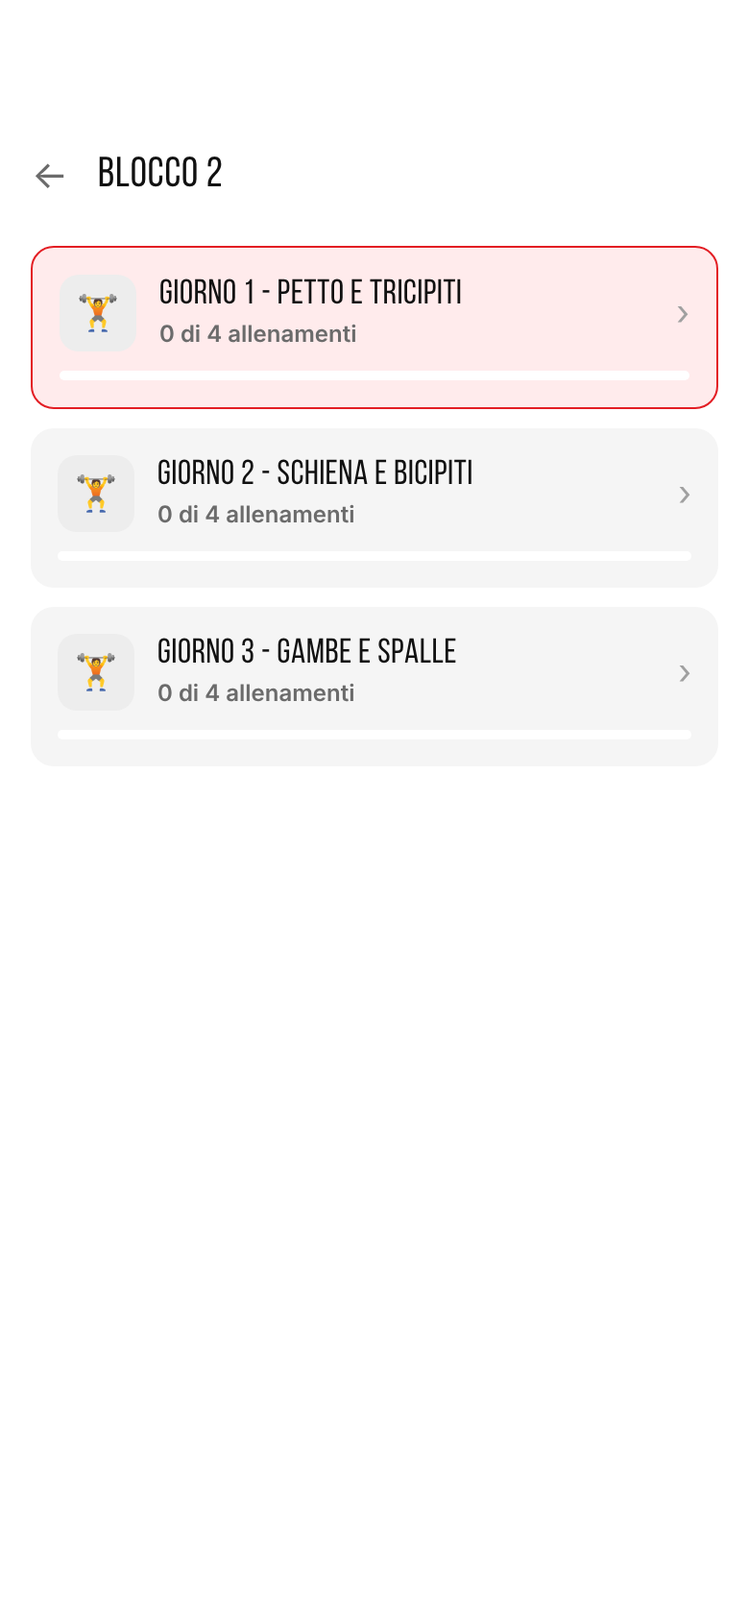
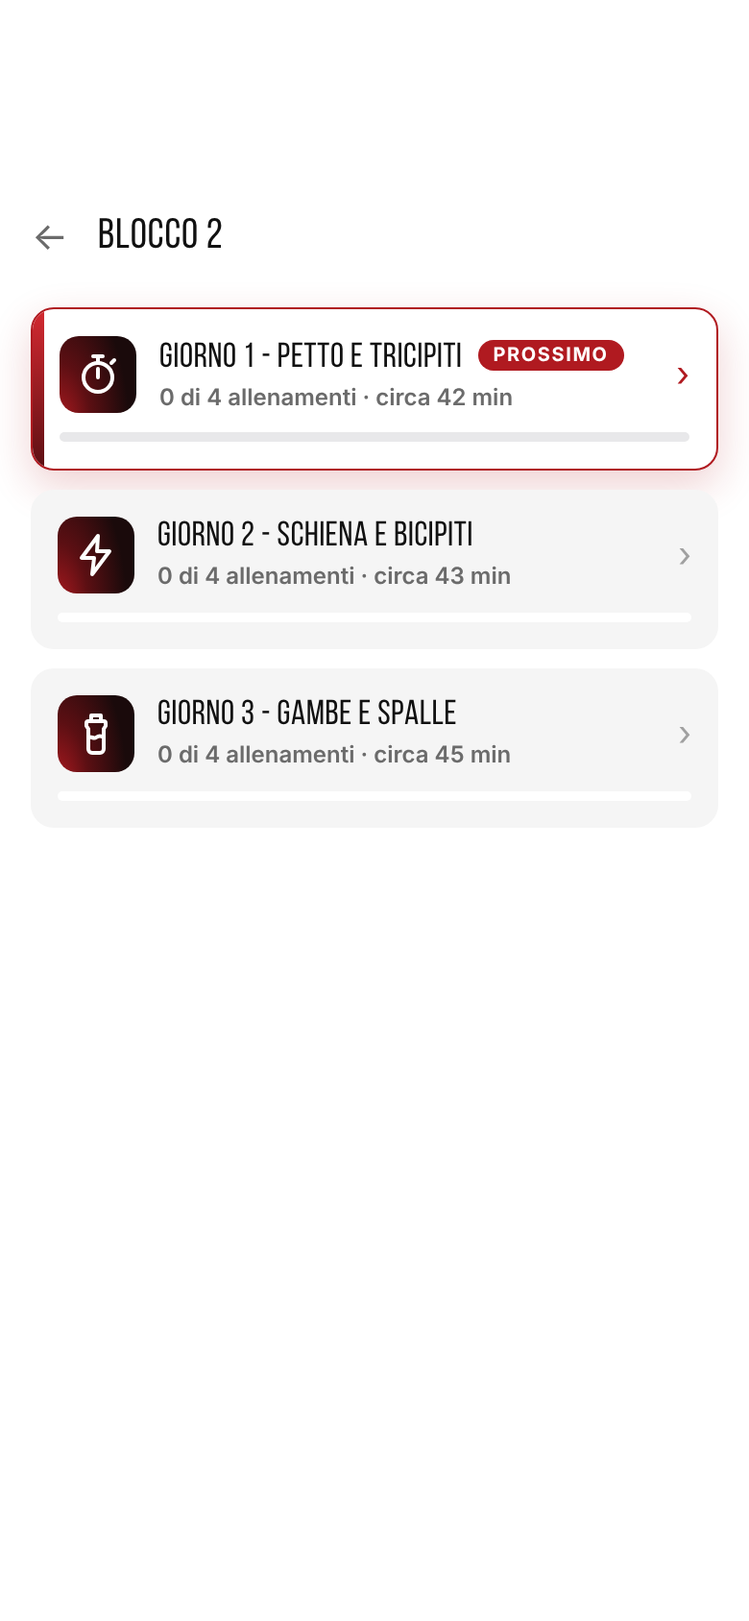
Coaching: schermate nuove dell'app di allenamento
Claude-Session: https://claude.ai/code/session_01FsqA95DUtiDL1q4D8YwpeG

diff --git a/coaching/index.html b/coaching/index.html
@@ -88,7 +88,7 @@ a{text-decoration:none}
 </div>
 
 <!-- phone hero -->
-<div style="flex: 1 1 540px; position: relative; display: flex; flex-wrap: wrap; justify-content: center; align-items: flex-start; gap: 24px"><a href="#modulo" style="position:absolute;top:-56px;right:0;z-index:5;max-width:230px;background:#E31E24;color:#ffffff;border-radius:16px;padding:16px 20px;box-shadow:0 14px 34px rgba(227,30,36,0.35);display:flex;flex-direction:column;gap:4px;transform:rotate(3deg)"><span style="display:flex;align-items:center;gap:8px;font-family:'Bebas Neue',sans-serif;font-size:30px;letter-spacing:0.04em;line-height:1"><svg width="22" height="22" viewBox="0 0 24 24" fill="none" stroke="#ffffff" stroke-width="2.2" stroke-linecap="round" stroke-linejoin="round" aria-hidden="true" style="flex:none"><circle cx="12" cy="12" r="9"/><path d="M12 7v5l3 2"/></svg>Posti limitati!</span><span style="font-size:13.5px;font-weight:600;line-height:1.4">Candidati ora per assicurarti il tuo.</span></a><div style="width:250px;max-width:100%;flex:none;background:#1A1A1A;border-radius:38px;padding:7px;box-sizing:border-box;box-shadow:0 0 0 1.5px #3A3A3A;position:relative"><div aria-hidden="true" style="position:absolute;top:7px;left:7px;right:7px;height:calc((100% - 14px) * 0.0692);container-type:inline-size;pointer-events:none;z-index:3;color:#ffffff"><div style="position:absolute;left:10cqw;top:0;height:100%;display:flex;align-items:center;font:600 4.2cqw 'Inter',sans-serif;letter-spacing:0.01em">9:41</div><div style="position:absolute;left:50%;top:2.8cqw;width:32.3cqw;height:9.5cqw;margin-left:-16.15cqw;background:#000;border-radius:999px"></div><div style="position:absolute;right:8cqw;top:0;height:100%;display:flex;align-items:center;gap:1.6cqw"><svg viewBox="0 0 18 12" style="width:4.6cqw;height:auto;display:block" fill="#ffffff"><rect x="0" y="8" width="3" height="4" rx="1"/><rect x="5" y="5.5" width="3" height="6.5" rx="1"/><rect x="10" y="3" width="3" height="9" rx="1"/><rect x="15" y="0" width="3" height="12" rx="1"/></svg><svg viewBox="0 0 17 12" style="width:4.3cqw;height:auto;display:block" fill="none" stroke="#ffffff" stroke-width="1.9" stroke-linecap="round"><path d="M1.2 4.3a10.8 10.8 0 0 1 14.6 0"/><path d="M3.9 7.1a7 7 0 0 1 9.2 0"/><circle cx="8.5" cy="10.2" r="1.1" fill="#ffffff" stroke="none"/></svg><svg viewBox="0 0 27 13" style="width:6.6cqw;height:auto;display:block"><rect x="0.5" y="0.5" width="23" height="12" rx="3.5" fill="none" stroke="#ffffff" stroke-opacity="0.4"/><rect x="2" y="2" width="20" height="9" rx="2.2" fill="#ffffff"/><path d="M25 4.5v4c.9-.3 1.6-1.2 1.6-2s-.7-1.7-1.6-2z" fill="#ffffff" fill-opacity="0.5"/></svg></div></div><div style="position:relative;width:100%;aspect-ratio:390 / 780;border-radius:31px;overflow:hidden;background:#0A0A0A"><div style="position:relative;width:100%;aspect-ratio:780 / 488;background:#0A0A0A;overflow:hidden"><img src="/coaching/img/petto.jpg" alt="" style="position:absolute;top:0;left:0;width:100%;height:100%;object-fit:cover;object-position:center;display:block"><div style="position:absolute;top:0;left:0;width:100%;height:100%;background:linear-gradient(rgba(0,0,0,0.25),rgba(0,0,0,0.35))"></div><img src="/coaching/img/app-elenco-testata.png" alt="" style="position:absolute;top:0;left:0;width:100%;height:100%;display:block"></div><img src="/coaching/img/app-elenco.png" alt="Elenco degli esercizi della seduta: Giorno 1, Allenamento 1, Petto e Tricipiti" style="width:100%;height:auto;display:block"></div></div><div style="margin-top:96px;display:flex;flex:none;max-width:100%"><div style="width:250px;max-width:100%;flex:none;background:#1A1A1A;border-radius:38px;padding:7px;box-sizing:border-box;box-shadow:0 0 0 1.5px #3A3A3A;position:relative"><div aria-hidden="true" style="position:absolute;top:7px;left:7px;right:7px;height:calc((100% - 14px) * 0.0692);container-type:inline-size;pointer-events:none;z-index:3;color:#0A0A0A"><div style="position:absolute;left:10cqw;top:0;height:100%;display:flex;align-items:center;font:600 4.2cqw 'Inter',sans-serif;letter-spacing:0.01em">9:41</div><div style="position:absolute;left:50%;top:2.8cqw;width:32.3cqw;height:9.5cqw;margin-left:-16.15cqw;background:#000;border-radius:999px"></div><div style="position:absolute;right:8cqw;top:0;height:100%;display:flex;align-items:center;gap:1.6cqw"><svg viewBox="0 0 18 12" style="width:4.6cqw;height:auto;display:block" fill="#0A0A0A"><rect x="0" y="8" width="3" height="4" rx="1"/><rect x="5" y="5.5" width="3" height="6.5" rx="1"/><rect x="10" y="3" width="3" height="9" rx="1"/><rect x="15" y="0" width="3" height="12" rx="1"/></svg><svg viewBox="0 0 17 12" style="width:4.3cqw;height:auto;display:block" fill="none" stroke="#0A0A0A" stroke-width="1.9" stroke-linecap="round"><path d="M1.2 4.3a10.8 10.8 0 0 1 14.6 0"/><path d="M3.9 7.1a7 7 0 0 1 9.2 0"/><circle cx="8.5" cy="10.2" r="1.1" fill="#0A0A0A" stroke="none"/></svg><svg viewBox="0 0 27 13" style="width:6.6cqw;height:auto;display:block"><rect x="0.5" y="0.5" width="23" height="12" rx="3.5" fill="none" stroke="#0A0A0A" stroke-opacity="0.4"/><rect x="2" y="2" width="20" height="9" rx="2.2" fill="#0A0A0A"/><path d="M25 4.5v4c.9-.3 1.6-1.2 1.6-2s-.7-1.7-1.6-2z" fill="#0A0A0A" fill-opacity="0.5"/></svg></div></div><img src="/coaching/img/app-dettaglio.png" alt="Dettaglio di un esercizio con video, serie, kg e ripetizioni" style="width:100%;aspect-ratio:390 / 780;object-fit:cover;object-position:top;display:block;border-radius:31px"></div></div></div>
+<div style="flex: 1 1 540px; position: relative; display: flex; flex-wrap: wrap; justify-content: center; align-items: flex-start; gap: 24px"><a href="#modulo" style="position:absolute;top:-56px;right:0;z-index:5;max-width:230px;background:#E31E24;color:#ffffff;border-radius:16px;padding:16px 20px;box-shadow:0 14px 34px rgba(227,30,36,0.35);display:flex;flex-direction:column;gap:4px;transform:rotate(3deg)"><span style="display:flex;align-items:center;gap:8px;font-family:'Bebas Neue',sans-serif;font-size:30px;letter-spacing:0.04em;line-height:1"><svg width="22" height="22" viewBox="0 0 24 24" fill="none" stroke="#ffffff" stroke-width="2.2" stroke-linecap="round" stroke-linejoin="round" aria-hidden="true" style="flex:none"><circle cx="12" cy="12" r="9"/><path d="M12 7v5l3 2"/></svg>Posti limitati!</span><span style="font-size:13.5px;font-weight:600;line-height:1.4">Candidati ora per assicurarti il tuo.</span></a><div style="width:250px;max-width:100%;flex:none;background:#1A1A1A;border-radius:38px;padding:7px;box-sizing:border-box;box-shadow:0 0 0 1.5px #3A3A3A;position:relative"><div aria-hidden="true" style="position:absolute;top:7px;left:7px;right:7px;height:calc((100% - 14px) * 0.0692);container-type:inline-size;pointer-events:none;z-index:3;color:#ffffff"><div style="position:absolute;left:10cqw;top:0;height:100%;display:flex;align-items:center;font:600 4.2cqw 'Inter',sans-serif;letter-spacing:0.01em">9:41</div><div style="position:absolute;left:50%;top:2.8cqw;width:32.3cqw;height:9.5cqw;margin-left:-16.15cqw;background:#000;border-radius:999px"></div><div style="position:absolute;right:8cqw;top:0;height:100%;display:flex;align-items:center;gap:1.6cqw"><svg viewBox="0 0 18 12" style="width:4.6cqw;height:auto;display:block" fill="#ffffff"><rect x="0" y="8" width="3" height="4" rx="1"/><rect x="5" y="5.5" width="3" height="6.5" rx="1"/><rect x="10" y="3" width="3" height="9" rx="1"/><rect x="15" y="0" width="3" height="12" rx="1"/></svg><svg viewBox="0 0 17 12" style="width:4.3cqw;height:auto;display:block" fill="none" stroke="#ffffff" stroke-width="1.9" stroke-linecap="round"><path d="M1.2 4.3a10.8 10.8 0 0 1 14.6 0"/><path d="M3.9 7.1a7 7 0 0 1 9.2 0"/><circle cx="8.5" cy="10.2" r="1.1" fill="#ffffff" stroke="none"/></svg><svg viewBox="0 0 27 13" style="width:6.6cqw;height:auto;display:block"><rect x="0.5" y="0.5" width="23" height="12" rx="3.5" fill="none" stroke="#ffffff" stroke-opacity="0.4"/><rect x="2" y="2" width="20" height="9" rx="2.2" fill="#ffffff"/><path d="M25 4.5v4c.9-.3 1.6-1.2 1.6-2s-.7-1.7-1.6-2z" fill="#ffffff" fill-opacity="0.5"/></svg></div></div><div style="position:relative;width:100%;aspect-ratio:390 / 780;border-radius:31px;overflow:hidden;background:#0A0A0A"><div style="position:relative;width:100%;aspect-ratio:780 / 488;background:#0A0A0A;overflow:hidden"><img src="/coaching/img/petto.jpg" alt="" style="position:absolute;top:0;left:0;width:100%;height:100%;object-fit:cover;object-position:center;display:block"><div style="position:absolute;top:0;left:0;width:100%;height:100%;background:linear-gradient(rgba(0,0,0,0.25),rgba(0,0,0,0.35))"></div><img src="/coaching/img/app-elenco-testata.png?v=2" alt="" style="position:absolute;top:0;left:0;width:100%;height:100%;display:block"></div><img src="/coaching/img/app-elenco.png?v=2" alt="Elenco degli esercizi della seduta: Giorno 1, Allenamento 1, Petto e Tricipiti" style="width:100%;height:auto;display:block"></div></div><div style="margin-top:96px;display:flex;flex:none;max-width:100%"><div style="width:250px;max-width:100%;flex:none;background:#1A1A1A;border-radius:38px;padding:7px;box-sizing:border-box;box-shadow:0 0 0 1.5px #3A3A3A;position:relative"><div aria-hidden="true" style="position:absolute;top:7px;left:7px;right:7px;height:calc((100% - 14px) * 0.0692);container-type:inline-size;pointer-events:none;z-index:3;color:#0A0A0A"><div style="position:absolute;left:10cqw;top:0;height:100%;display:flex;align-items:center;font:600 4.2cqw 'Inter',sans-serif;letter-spacing:0.01em">9:41</div><div style="position:absolute;left:50%;top:2.8cqw;width:32.3cqw;height:9.5cqw;margin-left:-16.15cqw;background:#000;border-radius:999px"></div><div style="position:absolute;right:8cqw;top:0;height:100%;display:flex;align-items:center;gap:1.6cqw"><svg viewBox="0 0 18 12" style="width:4.6cqw;height:auto;display:block" fill="#0A0A0A"><rect x="0" y="8" width="3" height="4" rx="1"/><rect x="5" y="5.5" width="3" height="6.5" rx="1"/><rect x="10" y="3" width="3" height="9" rx="1"/><rect x="15" y="0" width="3" height="12" rx="1"/></svg><svg viewBox="0 0 17 12" style="width:4.3cqw;height:auto;display:block" fill="none" stroke="#0A0A0A" stroke-width="1.9" stroke-linecap="round"><path d="M1.2 4.3a10.8 10.8 0 0 1 14.6 0"/><path d="M3.9 7.1a7 7 0 0 1 9.2 0"/><circle cx="8.5" cy="10.2" r="1.1" fill="#0A0A0A" stroke="none"/></svg><svg viewBox="0 0 27 13" style="width:6.6cqw;height:auto;display:block"><rect x="0.5" y="0.5" width="23" height="12" rx="3.5" fill="none" stroke="#0A0A0A" stroke-opacity="0.4"/><rect x="2" y="2" width="20" height="9" rx="2.2" fill="#0A0A0A"/><path d="M25 4.5v4c.9-.3 1.6-1.2 1.6-2s-.7-1.7-1.6-2z" fill="#0A0A0A" fill-opacity="0.5"/></svg></div></div><img src="/coaching/img/app-dettaglio.png?v=2" alt="Dettaglio di un esercizio con video, serie, kg e ripetizioni" style="width:100%;aspect-ratio:390 / 780;object-fit:cover;object-position:top;display:block;border-radius:31px"></div></div></div>
 </section>
 
 <!-- STRIP -->
@@ -144,7 +144,7 @@ a{text-decoration:none}
 </div>
 <p style="flex:1 1 360px;max-width:460px;margin:0;font-size:17px;line-height:1.65;color:#BDBDBD">Niente PDF da cercare nelle email e niente fogli persi: apri l'app, scegli l'allenamento e segui la scheda esercizio dopo esercizio. Queste sono le schermate vere dell'app.</p>
 </div>
-<div class="app-grid" style="display:flex;flex-wrap:wrap;gap:40px 24px;justify-content:center;max-width:870px;margin:0 auto"><figure style="margin:0;flex:1 1 220px;max-width:270px;display:flex;flex-direction:column;gap:14px"><div style="width:100%;background:#1A1A1A;border-radius:38px;padding:7px;box-sizing:border-box;box-shadow:0 0 0 1.5px #3A3A3A;position:relative"><div aria-hidden="true" style="position:absolute;top:7px;left:7px;right:7px;height:calc((100% - 14px) * 0.0692);container-type:inline-size;pointer-events:none;z-index:3;color:#0A0A0A"><div style="position:absolute;left:10cqw;top:0;height:100%;display:flex;align-items:center;font:600 4.2cqw 'Inter',sans-serif;letter-spacing:0.01em">9:41</div><div style="position:absolute;left:50%;top:2.8cqw;width:32.3cqw;height:9.5cqw;margin-left:-16.15cqw;background:#000;border-radius:999px"></div><div style="position:absolute;right:8cqw;top:0;height:100%;display:flex;align-items:center;gap:1.6cqw"><svg viewBox="0 0 18 12" style="width:4.6cqw;height:auto;display:block" fill="#0A0A0A"><rect x="0" y="8" width="3" height="4" rx="1"/><rect x="5" y="5.5" width="3" height="6.5" rx="1"/><rect x="10" y="3" width="3" height="9" rx="1"/><rect x="15" y="0" width="3" height="12" rx="1"/></svg><svg viewBox="0 0 17 12" style="width:4.3cqw;height:auto;display:block" fill="none" stroke="#0A0A0A" stroke-width="1.9" stroke-linecap="round"><path d="M1.2 4.3a10.8 10.8 0 0 1 14.6 0"/><path d="M3.9 7.1a7 7 0 0 1 9.2 0"/><circle cx="8.5" cy="10.2" r="1.1" fill="#0A0A0A" stroke="none"/></svg><svg viewBox="0 0 27 13" style="width:6.6cqw;height:auto;display:block"><rect x="0.5" y="0.5" width="23" height="12" rx="3.5" fill="none" stroke="#0A0A0A" stroke-opacity="0.4"/><rect x="2" y="2" width="20" height="9" rx="2.2" fill="#0A0A0A"/><path d="M25 4.5v4c.9-.3 1.6-1.2 1.6-2s-.7-1.7-1.6-2z" fill="#0A0A0A" fill-opacity="0.5"/></svg></div></div><img src="/coaching/img/app-categorie.png" alt="Schermata iniziale con le categorie di allenamento" style="width:100%;aspect-ratio:390 / 780;object-fit:cover;object-position:top;display:block;border-radius:31px"></div><figcaption><div style="font-family:'Bebas Neue',sans-serif;font-size:26px;line-height:1.05;letter-spacing:0.02em">Si parte da qui</div><div style="font-size:14px;line-height:1.55;color:#BDBDBD;margin-top:6px">Palestra subito pronta; corsa e allenamento funzionale in arrivo.</div></figcaption></figure><figure style="margin:0;flex:1 1 220px;max-width:270px;display:flex;flex-direction:column;gap:14px"><div style="width:100%;background:#1A1A1A;border-radius:38px;padding:7px;box-sizing:border-box;box-shadow:0 0 0 1.5px #3A3A3A;position:relative"><div aria-hidden="true" style="position:absolute;top:7px;left:7px;right:7px;height:calc((100% - 14px) * 0.0692);container-type:inline-size;pointer-events:none;z-index:3;color:#0A0A0A"><div style="position:absolute;left:10cqw;top:0;height:100%;display:flex;align-items:center;font:600 4.2cqw 'Inter',sans-serif;letter-spacing:0.01em">9:41</div><div style="position:absolute;left:50%;top:2.8cqw;width:32.3cqw;height:9.5cqw;margin-left:-16.15cqw;background:#000;border-radius:999px"></div><div style="position:absolute;right:8cqw;top:0;height:100%;display:flex;align-items:center;gap:1.6cqw"><svg viewBox="0 0 18 12" style="width:4.6cqw;height:auto;display:block" fill="#0A0A0A"><rect x="0" y="8" width="3" height="4" rx="1"/><rect x="5" y="5.5" width="3" height="6.5" rx="1"/><rect x="10" y="3" width="3" height="9" rx="1"/><rect x="15" y="0" width="3" height="12" rx="1"/></svg><svg viewBox="0 0 17 12" style="width:4.3cqw;height:auto;display:block" fill="none" stroke="#0A0A0A" stroke-width="1.9" stroke-linecap="round"><path d="M1.2 4.3a10.8 10.8 0 0 1 14.6 0"/><path d="M3.9 7.1a7 7 0 0 1 9.2 0"/><circle cx="8.5" cy="10.2" r="1.1" fill="#0A0A0A" stroke="none"/></svg><svg viewBox="0 0 27 13" style="width:6.6cqw;height:auto;display:block"><rect x="0.5" y="0.5" width="23" height="12" rx="3.5" fill="none" stroke="#0A0A0A" stroke-opacity="0.4"/><rect x="2" y="2" width="20" height="9" rx="2.2" fill="#0A0A0A"/><path d="M25 4.5v4c.9-.3 1.6-1.2 1.6-2s-.7-1.7-1.6-2z" fill="#0A0A0A" fill-opacity="0.5"/></svg></div></div><img src="/coaching/img/app-giorni.png" alt="Elenco dei giorni di allenamento del blocco" style="width:100%;aspect-ratio:390 / 780;object-fit:cover;object-position:top;display:block;border-radius:31px"></div><figcaption><div style="font-family:'Bebas Neue',sans-serif;font-size:26px;line-height:1.05;letter-spacing:0.02em">Blocchi e giorni</div><div style="font-size:14px;line-height:1.55;color:#BDBDBD;margin-top:6px">Ogni giorno ha la sua barra di avanzamento e l'app evidenzia il prossimo allenamento da fare.</div></figcaption></figure><figure style="margin:0;flex:1 1 220px;max-width:270px;display:flex;flex-direction:column;gap:14px"><div style="width:100%;background:#1A1A1A;border-radius:38px;padding:7px;box-sizing:border-box;box-shadow:0 0 0 1.5px #3A3A3A;position:relative"><div aria-hidden="true" style="position:absolute;top:7px;left:7px;right:7px;height:calc((100% - 14px) * 0.0692);container-type:inline-size;pointer-events:none;z-index:3;color:#ffffff"><div style="position:absolute;left:10cqw;top:0;height:100%;display:flex;align-items:center;font:600 4.2cqw 'Inter',sans-serif;letter-spacing:0.01em">9:41</div><div style="position:absolute;left:50%;top:2.8cqw;width:32.3cqw;height:9.5cqw;margin-left:-16.15cqw;background:#000;border-radius:999px"></div><div style="position:absolute;right:8cqw;top:0;height:100%;display:flex;align-items:center;gap:1.6cqw"><svg viewBox="0 0 18 12" style="width:4.6cqw;height:auto;display:block" fill="#ffffff"><rect x="0" y="8" width="3" height="4" rx="1"/><rect x="5" y="5.5" width="3" height="6.5" rx="1"/><rect x="10" y="3" width="3" height="9" rx="1"/><rect x="15" y="0" width="3" height="12" rx="1"/></svg><svg viewBox="0 0 17 12" style="width:4.3cqw;height:auto;display:block" fill="none" stroke="#ffffff" stroke-width="1.9" stroke-linecap="round"><path d="M1.2 4.3a10.8 10.8 0 0 1 14.6 0"/><path d="M3.9 7.1a7 7 0 0 1 9.2 0"/><circle cx="8.5" cy="10.2" r="1.1" fill="#ffffff" stroke="none"/></svg><svg viewBox="0 0 27 13" style="width:6.6cqw;height:auto;display:block"><rect x="0.5" y="0.5" width="23" height="12" rx="3.5" fill="none" stroke="#ffffff" stroke-opacity="0.4"/><rect x="2" y="2" width="20" height="9" rx="2.2" fill="#ffffff"/><path d="M25 4.5v4c.9-.3 1.6-1.2 1.6-2s-.7-1.7-1.6-2z" fill="#ffffff" fill-opacity="0.5"/></svg></div></div><div style="position:relative;width:100%;aspect-ratio:390 / 780;border-radius:31px;overflow:hidden;background:#0A0A0A"><div style="position:relative;width:100%;aspect-ratio:780 / 488;background:#0A0A0A;overflow:hidden"><img src="/coaching/img/petto.jpg" alt="" style="position:absolute;top:0;left:0;width:100%;height:100%;object-fit:cover;object-position:center;display:block"><div style="position:absolute;top:0;left:0;width:100%;height:100%;background:linear-gradient(rgba(0,0,0,0.25),rgba(0,0,0,0.35))"></div><img src="/coaching/img/app-elenco-testata.png" alt="" style="position:absolute;top:0;left:0;width:100%;height:100%;display:block"></div><img src="/coaching/img/app-elenco.png" alt="Elenco degli esercizi della seduta: Giorno 1, Allenamento 1, Petto e Tricipiti" style="width:100%;height:auto;display:block"></div></div><figcaption><div style="font-family:'Bebas Neue',sans-serif;font-size:26px;line-height:1.05;letter-spacing:0.02em">L'allenamento di oggi</div><div style="font-size:14px;line-height:1.55;color:#BDBDBD;margin-top:6px">Gli esercizi in ordine, con serie e ripetizioni. Se serve, puoi sostituirne uno.</div></figcaption></figure><figure style="margin:0;flex:1 1 220px;max-width:270px;display:flex;flex-direction:column;gap:14px"><div style="width:100%;background:#1A1A1A;border-radius:38px;padding:7px;box-sizing:border-box;box-shadow:0 0 0 1.5px #3A3A3A;position:relative"><div aria-hidden="true" style="position:absolute;top:7px;left:7px;right:7px;height:calc((100% - 14px) * 0.0692);container-type:inline-size;pointer-events:none;z-index:3;color:#0A0A0A"><div style="position:absolute;left:10cqw;top:0;height:100%;display:flex;align-items:center;font:600 4.2cqw 'Inter',sans-serif;letter-spacing:0.01em">9:41</div><div style="position:absolute;left:50%;top:2.8cqw;width:32.3cqw;height:9.5cqw;margin-left:-16.15cqw;background:#000;border-radius:999px"></div><div style="position:absolute;right:8cqw;top:0;height:100%;display:flex;align-items:center;gap:1.6cqw"><svg viewBox="0 0 18 12" style="width:4.6cqw;height:auto;display:block" fill="#0A0A0A"><rect x="0" y="8" width="3" height="4" rx="1"/><rect x="5" y="5.5" width="3" height="6.5" rx="1"/><rect x="10" y="3" width="3" height="9" rx="1"/><rect x="15" y="0" width="3" height="12" rx="1"/></svg><svg viewBox="0 0 17 12" style="width:4.3cqw;height:auto;display:block" fill="none" stroke="#0A0A0A" stroke-width="1.9" stroke-linecap="round"><path d="M1.2 4.3a10.8 10.8 0 0 1 14.6 0"/><path d="M3.9 7.1a7 7 0 0 1 9.2 0"/><circle cx="8.5" cy="10.2" r="1.1" fill="#0A0A0A" stroke="none"/></svg><svg viewBox="0 0 27 13" style="width:6.6cqw;height:auto;display:block"><rect x="0.5" y="0.5" width="23" height="12" rx="3.5" fill="none" stroke="#0A0A0A" stroke-opacity="0.4"/><rect x="2" y="2" width="20" height="9" rx="2.2" fill="#0A0A0A"/><path d="M25 4.5v4c.9-.3 1.6-1.2 1.6-2s-.7-1.7-1.6-2z" fill="#0A0A0A" fill-opacity="0.5"/></svg></div></div><img src="/coaching/img/app-dettaglio.png" alt="Dettaglio esercizio con serie, kg, ripetizioni e timer" style="width:100%;aspect-ratio:390 / 780;object-fit:cover;object-position:top;display:block;border-radius:31px"></div><figcaption><div style="font-family:'Bebas Neue',sans-serif;font-size:26px;line-height:1.05;letter-spacing:0.02em">Ogni serie, registrata</div><div style="font-size:14px;line-height:1.55;color:#BDBDBD;margin-top:6px">Guarda il video, leggi la descrizione, scrivi kg e ripetizioni e usa il timer di recupero.</div></figcaption></figure><figure style="margin:0;flex:1 1 220px;max-width:270px;display:flex;flex-direction:column;gap:14px"><div style="width:100%;background:#1A1A1A;border-radius:38px;padding:7px;box-sizing:border-box;box-shadow:0 0 0 1.5px #3A3A3A;position:relative"><div aria-hidden="true" style="position:absolute;top:7px;left:7px;right:7px;height:calc((100% - 14px) * 0.0692);container-type:inline-size;pointer-events:none;z-index:3;color:#0A0A0A"><div style="position:absolute;left:10cqw;top:0;height:100%;display:flex;align-items:center;font:600 4.2cqw 'Inter',sans-serif;letter-spacing:0.01em">9:41</div><div style="position:absolute;left:50%;top:2.8cqw;width:32.3cqw;height:9.5cqw;margin-left:-16.15cqw;background:#000;border-radius:999px"></div><div style="position:absolute;right:8cqw;top:0;height:100%;display:flex;align-items:center;gap:1.6cqw"><svg viewBox="0 0 18 12" style="width:4.6cqw;height:auto;display:block" fill="#0A0A0A"><rect x="0" y="8" width="3" height="4" rx="1"/><rect x="5" y="5.5" width="3" height="6.5" rx="1"/><rect x="10" y="3" width="3" height="9" rx="1"/><rect x="15" y="0" width="3" height="12" rx="1"/></svg><svg viewBox="0 0 17 12" style="width:4.3cqw;height:auto;display:block" fill="none" stroke="#0A0A0A" stroke-width="1.9" stroke-linecap="round"><path d="M1.2 4.3a10.8 10.8 0 0 1 14.6 0"/><path d="M3.9 7.1a7 7 0 0 1 9.2 0"/><circle cx="8.5" cy="10.2" r="1.1" fill="#0A0A0A" stroke="none"/></svg><svg viewBox="0 0 27 13" style="width:6.6cqw;height:auto;display:block"><rect x="0.5" y="0.5" width="23" height="12" rx="3.5" fill="none" stroke="#0A0A0A" stroke-opacity="0.4"/><rect x="2" y="2" width="20" height="9" rx="2.2" fill="#0A0A0A"/><path d="M25 4.5v4c.9-.3 1.6-1.2 1.6-2s-.7-1.7-1.6-2z" fill="#0A0A0A" fill-opacity="0.5"/></svg></div></div><img src="/coaching/img/app-valutazione.png" alt="Valutazione della fatica percepita" style="width:100%;aspect-ratio:390 / 780;object-fit:cover;object-position:top;display:block;border-radius:31px"></div><figcaption><div style="font-family:'Bebas Neue',sans-serif;font-size:26px;line-height:1.05;letter-spacing:0.02em">Come è andata?</div><div style="font-size:14px;line-height:1.55;color:#BDBDBD;margin-top:6px">Fatica percepita da 1 a 10 e un commento: li leggo io, e guidano i carichi successivi.</div></figcaption></figure><figure style="margin:0;flex:1 1 220px;max-width:270px;display:flex;flex-direction:column;gap:14px"><div style="width:100%;background:#1A1A1A;border-radius:38px;padding:7px;box-sizing:border-box;box-shadow:0 0 0 1.5px #3A3A3A;position:relative"><div aria-hidden="true" style="position:absolute;top:7px;left:7px;right:7px;height:calc((100% - 14px) * 0.0692);container-type:inline-size;pointer-events:none;z-index:3;color:#0A0A0A"><div style="position:absolute;left:10cqw;top:0;height:100%;display:flex;align-items:center;font:600 4.2cqw 'Inter',sans-serif;letter-spacing:0.01em">9:41</div><div style="position:absolute;left:50%;top:2.8cqw;width:32.3cqw;height:9.5cqw;margin-left:-16.15cqw;background:#000;border-radius:999px"></div><div style="position:absolute;right:8cqw;top:0;height:100%;display:flex;align-items:center;gap:1.6cqw"><svg viewBox="0 0 18 12" style="width:4.6cqw;height:auto;display:block" fill="#0A0A0A"><rect x="0" y="8" width="3" height="4" rx="1"/><rect x="5" y="5.5" width="3" height="6.5" rx="1"/><rect x="10" y="3" width="3" height="9" rx="1"/><rect x="15" y="0" width="3" height="12" rx="1"/></svg><svg viewBox="0 0 17 12" style="width:4.3cqw;height:auto;display:block" fill="none" stroke="#0A0A0A" stroke-width="1.9" stroke-linecap="round"><path d="M1.2 4.3a10.8 10.8 0 0 1 14.6 0"/><path d="M3.9 7.1a7 7 0 0 1 9.2 0"/><circle cx="8.5" cy="10.2" r="1.1" fill="#0A0A0A" stroke="none"/></svg><svg viewBox="0 0 27 13" style="width:6.6cqw;height:auto;display:block"><rect x="0.5" y="0.5" width="23" height="12" rx="3.5" fill="none" stroke="#0A0A0A" stroke-opacity="0.4"/><rect x="2" y="2" width="20" height="9" rx="2.2" fill="#0A0A0A"/><path d="M25 4.5v4c.9-.3 1.6-1.2 1.6-2s-.7-1.7-1.6-2z" fill="#0A0A0A" fill-opacity="0.5"/></svg></div></div><img src="/coaching/img/app-fine.png" alt="Schermata di fine allenamento" style="width:100%;aspect-ratio:390 / 780;object-fit:cover;object-position:top;display:block;border-radius:31px"></div><figcaption><div style="font-family:'Bebas Neue',sans-serif;font-size:26px;line-height:1.05;letter-spacing:0.02em">Ottimo lavoro</div><div style="font-size:14px;line-height:1.55;color:#BDBDBD;margin-top:6px">A fine seduta vedi quanti allenamenti del blocco hai completato.</div></figcaption></figure></div>
+<div class="app-grid" style="display:flex;flex-wrap:wrap;gap:40px 24px;justify-content:center;max-width:870px;margin:0 auto"><figure style="margin:0;flex:1 1 220px;max-width:270px;display:flex;flex-direction:column;gap:14px"><div style="width:100%;background:#1A1A1A;border-radius:38px;padding:7px;box-sizing:border-box;box-shadow:0 0 0 1.5px #3A3A3A;position:relative"><div aria-hidden="true" style="position:absolute;top:7px;left:7px;right:7px;height:calc((100% - 14px) * 0.0692);container-type:inline-size;pointer-events:none;z-index:3;color:#0A0A0A"><div style="position:absolute;left:10cqw;top:0;height:100%;display:flex;align-items:center;font:600 4.2cqw 'Inter',sans-serif;letter-spacing:0.01em">9:41</div><div style="position:absolute;left:50%;top:2.8cqw;width:32.3cqw;height:9.5cqw;margin-left:-16.15cqw;background:#000;border-radius:999px"></div><div style="position:absolute;right:8cqw;top:0;height:100%;display:flex;align-items:center;gap:1.6cqw"><svg viewBox="0 0 18 12" style="width:4.6cqw;height:auto;display:block" fill="#0A0A0A"><rect x="0" y="8" width="3" height="4" rx="1"/><rect x="5" y="5.5" width="3" height="6.5" rx="1"/><rect x="10" y="3" width="3" height="9" rx="1"/><rect x="15" y="0" width="3" height="12" rx="1"/></svg><svg viewBox="0 0 17 12" style="width:4.3cqw;height:auto;display:block" fill="none" stroke="#0A0A0A" stroke-width="1.9" stroke-linecap="round"><path d="M1.2 4.3a10.8 10.8 0 0 1 14.6 0"/><path d="M3.9 7.1a7 7 0 0 1 9.2 0"/><circle cx="8.5" cy="10.2" r="1.1" fill="#0A0A0A" stroke="none"/></svg><svg viewBox="0 0 27 13" style="width:6.6cqw;height:auto;display:block"><rect x="0.5" y="0.5" width="23" height="12" rx="3.5" fill="none" stroke="#0A0A0A" stroke-opacity="0.4"/><rect x="2" y="2" width="20" height="9" rx="2.2" fill="#0A0A0A"/><path d="M25 4.5v4c.9-.3 1.6-1.2 1.6-2s-.7-1.7-1.6-2z" fill="#0A0A0A" fill-opacity="0.5"/></svg></div></div><img src="/coaching/img/app-categorie.png?v=2" alt="Schermata iniziale con le categorie di allenamento" style="width:100%;aspect-ratio:390 / 780;object-fit:cover;object-position:top;display:block;border-radius:31px"></div><figcaption><div style="font-family:'Bebas Neue',sans-serif;font-size:26px;line-height:1.05;letter-spacing:0.02em">Si parte da qui</div><div style="font-size:14px;line-height:1.55;color:#BDBDBD;margin-top:6px">Palestra subito pronta; corsa e allenamento funzionale in arrivo.</div></figcaption></figure><figure style="margin:0;flex:1 1 220px;max-width:270px;display:flex;flex-direction:column;gap:14px"><div style="width:100%;background:#1A1A1A;border-radius:38px;padding:7px;box-sizing:border-box;box-shadow:0 0 0 1.5px #3A3A3A;position:relative"><div aria-hidden="true" style="position:absolute;top:7px;left:7px;right:7px;height:calc((100% - 14px) * 0.0692);container-type:inline-size;pointer-events:none;z-index:3;color:#0A0A0A"><div style="position:absolute;left:10cqw;top:0;height:100%;display:flex;align-items:center;font:600 4.2cqw 'Inter',sans-serif;letter-spacing:0.01em">9:41</div><div style="position:absolute;left:50%;top:2.8cqw;width:32.3cqw;height:9.5cqw;margin-left:-16.15cqw;background:#000;border-radius:999px"></div><div style="position:absolute;right:8cqw;top:0;height:100%;display:flex;align-items:center;gap:1.6cqw"><svg viewBox="0 0 18 12" style="width:4.6cqw;height:auto;display:block" fill="#0A0A0A"><rect x="0" y="8" width="3" height="4" rx="1"/><rect x="5" y="5.5" width="3" height="6.5" rx="1"/><rect x="10" y="3" width="3" height="9" rx="1"/><rect x="15" y="0" width="3" height="12" rx="1"/></svg><svg viewBox="0 0 17 12" style="width:4.3cqw;height:auto;display:block" fill="none" stroke="#0A0A0A" stroke-width="1.9" stroke-linecap="round"><path d="M1.2 4.3a10.8 10.8 0 0 1 14.6 0"/><path d="M3.9 7.1a7 7 0 0 1 9.2 0"/><circle cx="8.5" cy="10.2" r="1.1" fill="#0A0A0A" stroke="none"/></svg><svg viewBox="0 0 27 13" style="width:6.6cqw;height:auto;display:block"><rect x="0.5" y="0.5" width="23" height="12" rx="3.5" fill="none" stroke="#0A0A0A" stroke-opacity="0.4"/><rect x="2" y="2" width="20" height="9" rx="2.2" fill="#0A0A0A"/><path d="M25 4.5v4c.9-.3 1.6-1.2 1.6-2s-.7-1.7-1.6-2z" fill="#0A0A0A" fill-opacity="0.5"/></svg></div></div><img src="/coaching/img/app-giorni.png?v=2" alt="Elenco dei giorni di allenamento del blocco" style="width:100%;aspect-ratio:390 / 780;object-fit:cover;object-position:top;display:block;border-radius:31px"></div><figcaption><div style="font-family:'Bebas Neue',sans-serif;font-size:26px;line-height:1.05;letter-spacing:0.02em">Blocchi e giorni</div><div style="font-size:14px;line-height:1.55;color:#BDBDBD;margin-top:6px">Ogni giorno ha la sua barra di avanzamento e l'app evidenzia il prossimo allenamento da fare.</div></figcaption></figure><figure style="margin:0;flex:1 1 220px;max-width:270px;display:flex;flex-direction:column;gap:14px"><div style="width:100%;background:#1A1A1A;border-radius:38px;padding:7px;box-sizing:border-box;box-shadow:0 0 0 1.5px #3A3A3A;position:relative"><div aria-hidden="true" style="position:absolute;top:7px;left:7px;right:7px;height:calc((100% - 14px) * 0.0692);container-type:inline-size;pointer-events:none;z-index:3;color:#ffffff"><div style="position:absolute;left:10cqw;top:0;height:100%;display:flex;align-items:center;font:600 4.2cqw 'Inter',sans-serif;letter-spacing:0.01em">9:41</div><div style="position:absolute;left:50%;top:2.8cqw;width:32.3cqw;height:9.5cqw;margin-left:-16.15cqw;background:#000;border-radius:999px"></div><div style="position:absolute;right:8cqw;top:0;height:100%;display:flex;align-items:center;gap:1.6cqw"><svg viewBox="0 0 18 12" style="width:4.6cqw;height:auto;display:block" fill="#ffffff"><rect x="0" y="8" width="3" height="4" rx="1"/><rect x="5" y="5.5" width="3" height="6.5" rx="1"/><rect x="10" y="3" width="3" height="9" rx="1"/><rect x="15" y="0" width="3" height="12" rx="1"/></svg><svg viewBox="0 0 17 12" style="width:4.3cqw;height:auto;display:block" fill="none" stroke="#ffffff" stroke-width="1.9" stroke-linecap="round"><path d="M1.2 4.3a10.8 10.8 0 0 1 14.6 0"/><path d="M3.9 7.1a7 7 0 0 1 9.2 0"/><circle cx="8.5" cy="10.2" r="1.1" fill="#ffffff" stroke="none"/></svg><svg viewBox="0 0 27 13" style="width:6.6cqw;height:auto;display:block"><rect x="0.5" y="0.5" width="23" height="12" rx="3.5" fill="none" stroke="#ffffff" stroke-opacity="0.4"/><rect x="2" y="2" width="20" height="9" rx="2.2" fill="#ffffff"/><path d="M25 4.5v4c.9-.3 1.6-1.2 1.6-2s-.7-1.7-1.6-2z" fill="#ffffff" fill-opacity="0.5"/></svg></div></div><div style="position:relative;width:100%;aspect-ratio:390 / 780;border-radius:31px;overflow:hidden;background:#0A0A0A"><div style="position:relative;width:100%;aspect-ratio:780 / 488;background:#0A0A0A;overflow:hidden"><img src="/coaching/img/petto.jpg" alt="" style="position:absolute;top:0;left:0;width:100%;height:100%;object-fit:cover;object-position:center;display:block"><div style="position:absolute;top:0;left:0;width:100%;height:100%;background:linear-gradient(rgba(0,0,0,0.25),rgba(0,0,0,0.35))"></div><img src="/coaching/img/app-elenco-testata.png?v=2" alt="" style="position:absolute;top:0;left:0;width:100%;height:100%;display:block"></div><img src="/coaching/img/app-elenco.png?v=2" alt="Elenco degli esercizi della seduta: Giorno 1, Allenamento 1, Petto e Tricipiti" style="width:100%;height:auto;display:block"></div></div><figcaption><div style="font-family:'Bebas Neue',sans-serif;font-size:26px;line-height:1.05;letter-spacing:0.02em">L'allenamento di oggi</div><div style="font-size:14px;line-height:1.55;color:#BDBDBD;margin-top:6px">Gli esercizi in ordine, con serie e ripetizioni. Se serve, puoi sostituirne uno.</div></figcaption></figure><figure style="margin:0;flex:1 1 220px;max-width:270px;display:flex;flex-direction:column;gap:14px"><div style="width:100%;background:#1A1A1A;border-radius:38px;padding:7px;box-sizing:border-box;box-shadow:0 0 0 1.5px #3A3A3A;position:relative"><div aria-hidden="true" style="position:absolute;top:7px;left:7px;right:7px;height:calc((100% - 14px) * 0.0692);container-type:inline-size;pointer-events:none;z-index:3;color:#0A0A0A"><div style="position:absolute;left:10cqw;top:0;height:100%;display:flex;align-items:center;font:600 4.2cqw 'Inter',sans-serif;letter-spacing:0.01em">9:41</div><div style="position:absolute;left:50%;top:2.8cqw;width:32.3cqw;height:9.5cqw;margin-left:-16.15cqw;background:#000;border-radius:999px"></div><div style="position:absolute;right:8cqw;top:0;height:100%;display:flex;align-items:center;gap:1.6cqw"><svg viewBox="0 0 18 12" style="width:4.6cqw;height:auto;display:block" fill="#0A0A0A"><rect x="0" y="8" width="3" height="4" rx="1"/><rect x="5" y="5.5" width="3" height="6.5" rx="1"/><rect x="10" y="3" width="3" height="9" rx="1"/><rect x="15" y="0" width="3" height="12" rx="1"/></svg><svg viewBox="0 0 17 12" style="width:4.3cqw;height:auto;display:block" fill="none" stroke="#0A0A0A" stroke-width="1.9" stroke-linecap="round"><path d="M1.2 4.3a10.8 10.8 0 0 1 14.6 0"/><path d="M3.9 7.1a7 7 0 0 1 9.2 0"/><circle cx="8.5" cy="10.2" r="1.1" fill="#0A0A0A" stroke="none"/></svg><svg viewBox="0 0 27 13" style="width:6.6cqw;height:auto;display:block"><rect x="0.5" y="0.5" width="23" height="12" rx="3.5" fill="none" stroke="#0A0A0A" stroke-opacity="0.4"/><rect x="2" y="2" width="20" height="9" rx="2.2" fill="#0A0A0A"/><path d="M25 4.5v4c.9-.3 1.6-1.2 1.6-2s-.7-1.7-1.6-2z" fill="#0A0A0A" fill-opacity="0.5"/></svg></div></div><img src="/coaching/img/app-dettaglio.png?v=2" alt="Dettaglio esercizio con serie, kg, ripetizioni e timer" style="width:100%;aspect-ratio:390 / 780;object-fit:cover;object-position:top;display:block;border-radius:31px"></div><figcaption><div style="font-family:'Bebas Neue',sans-serif;font-size:26px;line-height:1.05;letter-spacing:0.02em">Ogni serie, registrata</div><div style="font-size:14px;line-height:1.55;color:#BDBDBD;margin-top:6px">Guarda il video, leggi la descrizione, scrivi kg e ripetizioni e usa il timer di recupero.</div></figcaption></figure><figure style="margin:0;flex:1 1 220px;max-width:270px;display:flex;flex-direction:column;gap:14px"><div style="width:100%;background:#1A1A1A;border-radius:38px;padding:7px;box-sizing:border-box;box-shadow:0 0 0 1.5px #3A3A3A;position:relative"><div aria-hidden="true" style="position:absolute;top:7px;left:7px;right:7px;height:calc((100% - 14px) * 0.0692);container-type:inline-size;pointer-events:none;z-index:3;color:#0A0A0A"><div style="position:absolute;left:10cqw;top:0;height:100%;display:flex;align-items:center;font:600 4.2cqw 'Inter',sans-serif;letter-spacing:0.01em">9:41</div><div style="position:absolute;left:50%;top:2.8cqw;width:32.3cqw;height:9.5cqw;margin-left:-16.15cqw;background:#000;border-radius:999px"></div><div style="position:absolute;right:8cqw;top:0;height:100%;display:flex;align-items:center;gap:1.6cqw"><svg viewBox="0 0 18 12" style="width:4.6cqw;height:auto;display:block" fill="#0A0A0A"><rect x="0" y="8" width="3" height="4" rx="1"/><rect x="5" y="5.5" width="3" height="6.5" rx="1"/><rect x="10" y="3" width="3" height="9" rx="1"/><rect x="15" y="0" width="3" height="12" rx="1"/></svg><svg viewBox="0 0 17 12" style="width:4.3cqw;height:auto;display:block" fill="none" stroke="#0A0A0A" stroke-width="1.9" stroke-linecap="round"><path d="M1.2 4.3a10.8 10.8 0 0 1 14.6 0"/><path d="M3.9 7.1a7 7 0 0 1 9.2 0"/><circle cx="8.5" cy="10.2" r="1.1" fill="#0A0A0A" stroke="none"/></svg><svg viewBox="0 0 27 13" style="width:6.6cqw;height:auto;display:block"><rect x="0.5" y="0.5" width="23" height="12" rx="3.5" fill="none" stroke="#0A0A0A" stroke-opacity="0.4"/><rect x="2" y="2" width="20" height="9" rx="2.2" fill="#0A0A0A"/><path d="M25 4.5v4c.9-.3 1.6-1.2 1.6-2s-.7-1.7-1.6-2z" fill="#0A0A0A" fill-opacity="0.5"/></svg></div></div><img src="/coaching/img/app-valutazione.png?v=2" alt="Valutazione della fatica percepita" style="width:100%;aspect-ratio:390 / 780;object-fit:cover;object-position:top;display:block;border-radius:31px"></div><figcaption><div style="font-family:'Bebas Neue',sans-serif;font-size:26px;line-height:1.05;letter-spacing:0.02em">Come è andata?</div><div style="font-size:14px;line-height:1.55;color:#BDBDBD;margin-top:6px">Fatica percepita da 1 a 10 e un commento: li leggo io, e guidano i carichi successivi.</div></figcaption></figure><figure style="margin:0;flex:1 1 220px;max-width:270px;display:flex;flex-direction:column;gap:14px"><div style="width:100%;background:#1A1A1A;border-radius:38px;padding:7px;box-sizing:border-box;box-shadow:0 0 0 1.5px #3A3A3A;position:relative"><div aria-hidden="true" style="position:absolute;top:7px;left:7px;right:7px;height:calc((100% - 14px) * 0.0692);container-type:inline-size;pointer-events:none;z-index:3;color:#0A0A0A"><div style="position:absolute;left:10cqw;top:0;height:100%;display:flex;align-items:center;font:600 4.2cqw 'Inter',sans-serif;letter-spacing:0.01em">9:41</div><div style="position:absolute;left:50%;top:2.8cqw;width:32.3cqw;height:9.5cqw;margin-left:-16.15cqw;background:#000;border-radius:999px"></div><div style="position:absolute;right:8cqw;top:0;height:100%;display:flex;align-items:center;gap:1.6cqw"><svg viewBox="0 0 18 12" style="width:4.6cqw;height:auto;display:block" fill="#0A0A0A"><rect x="0" y="8" width="3" height="4" rx="1"/><rect x="5" y="5.5" width="3" height="6.5" rx="1"/><rect x="10" y="3" width="3" height="9" rx="1"/><rect x="15" y="0" width="3" height="12" rx="1"/></svg><svg viewBox="0 0 17 12" style="width:4.3cqw;height:auto;display:block" fill="none" stroke="#0A0A0A" stroke-width="1.9" stroke-linecap="round"><path d="M1.2 4.3a10.8 10.8 0 0 1 14.6 0"/><path d="M3.9 7.1a7 7 0 0 1 9.2 0"/><circle cx="8.5" cy="10.2" r="1.1" fill="#0A0A0A" stroke="none"/></svg><svg viewBox="0 0 27 13" style="width:6.6cqw;height:auto;display:block"><rect x="0.5" y="0.5" width="23" height="12" rx="3.5" fill="none" stroke="#0A0A0A" stroke-opacity="0.4"/><rect x="2" y="2" width="20" height="9" rx="2.2" fill="#0A0A0A"/><path d="M25 4.5v4c.9-.3 1.6-1.2 1.6-2s-.7-1.7-1.6-2z" fill="#0A0A0A" fill-opacity="0.5"/></svg></div></div><img src="/coaching/img/app-fine.png?v=2" alt="Schermata di fine allenamento" style="width:100%;aspect-ratio:390 / 780;object-fit:cover;object-position:top;display:block;border-radius:31px"></div><figcaption><div style="font-family:'Bebas Neue',sans-serif;font-size:26px;line-height:1.05;letter-spacing:0.02em">Ottimo lavoro</div><div style="font-size:14px;line-height:1.55;color:#BDBDBD;margin-top:6px">A fine seduta vedi quanti allenamenti del blocco hai completato.</div></figcaption></figure></div>
 <div style="display:flex;flex-wrap:wrap;gap:32px 28px"><div style="flex:1 1 300px;border-top:2px solid #E31E24;padding-top:16px"><div style="font-size:18px;font-weight:700">Blocchi a tappe</div><div style="font-size:15px;line-height:1.6;color:#BDBDBD;margin-top:6px">Ogni blocco si sblocca quando completi il precedente; quelli già fatti restano consultabili in sola lettura.</div></div><div style="flex:1 1 300px;border-top:2px solid #E31E24;padding-top:16px"><div style="font-size:18px;font-weight:700">Carichi che si adattano</div><div style="font-size:15px;line-height:1.6;color:#BDBDBD;margin-top:6px">In base alle ripetizioni fatte e alla fatica percepita, l'app propone il carico per la seduta dopo: aumenta, mantiene o riduce.</div></div><div style="flex:1 1 300px;border-top:2px solid #E31E24;padding-top:16px"><div style="font-size:18px;font-weight:700">Super-set e tri-set</div><div style="font-size:15px;line-height:1.6;color:#BDBDBD;margin-top:6px">Gli esercizi abbinati si gestiscono insieme, con i loro kg e le loro ripetizioni.</div></div><div style="flex:1 1 300px;border-top:2px solid #E31E24;padding-top:16px"><div style="font-size:18px;font-weight:700">Tutto torna a me</div><div style="font-size:15px;line-height:1.6;color:#BDBDBD;margin-top:6px">Kg, ripetizioni e commenti arrivano a me, così vedo come stai andando e posso correggere la rotta.</div></div><div style="flex:1 1 300px;border-top:2px solid #E31E24;padding-top:16px"><div style="font-size:18px;font-weight:700">Accesso semplice</div><div style="font-size:15px;line-height:1.6;color:#BDBDBD;margin-top:6px">Niente registrazioni: entri con il tuo codice personale e trovi la tua scheda.</div></div><div style="flex:1 1 300px;border-top:2px solid #E31E24;padding-top:16px"><div style="font-size:18px;font-weight:700">Sul telefono</div><div style="font-size:15px;line-height:1.6;color:#BDBDBD;margin-top:6px">Si usa dal telefono, come un'app, e si apre direttamente in palestra.</div></div></div>
 <p style="margin:0;font-size:12.5px;color:#8A8A8A">Schermate con dati di esempio.</p>
 </section>
